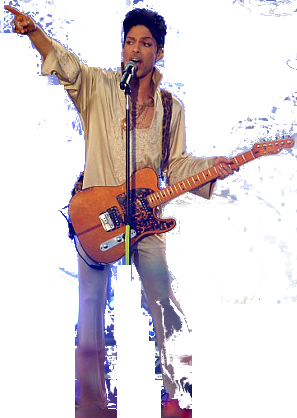
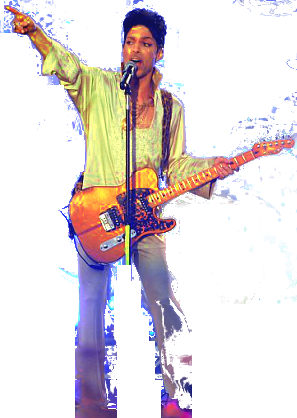
details

diff --git a/index.html b/index.html
@@ -11,21 +11,22 @@
     <script src="components/aframe-template-component.min.js"></script>
     <script src="components/aframe-vid-shader.min.js"></script>
     <script src="components/entity-generator.js"></script>
-    <script src="components/extrude-svg.js"></script>
+    <script src="components/spotlight-target.js"></script>
+    <script src="components/svg-extrude-geometry.js"></script>
   </head>
   <body>
     <a-scene>
       <a-assets>
         <img id="ground" src="assets/ground.jpg">
         <img id="love" src="assets/love.svg">
-        <img id="prince" src="assets/prince.png">
+        <img id="prince-img" src="assets/prince.png">
         <a-mixin id="raindrop"
                  geometry="primitive: box; depth: 0.008; height: 0.05; width: 0.008"
-                 material="color: #590D82; shader: flat"
+                 material="color: #8B3FB4; shader: flat"
                  random-position="min: -6 -6 -6; max: 6 6 3"></a-mixin>
         <a-mixin id="spotlight"
-                 light="angle: 160; color: #FFF; intensity: 0.7; type: spot"
-                 rotation="45 45 0"></a-mixin>
+                 light="angle: 80; color: #AAC; intensity: 1; type: spot"
+                 spotlight-target="#prince"></a-mixin>
         <a-mixin id="candlelight"
                  geometry="primitive: sphere; radius: 0.2; segments: 4"
                  material="color: #F5F0E8; shader: flat"></a-mixin>
@@ -55,9 +56,13 @@
                                       curveSegments: 36"
                 material="color: #BD1EEE; metalness: 0.1; roughness: 0.6"
                 scale="0.34 0.34 0.34" rotation="90 0 0" position="-103 1 -220"></a-entity>
-      <a-image src="#prince" position="0 5 -3" scale="3 5 3"></a-image>
+      <a-entity svg-extrude-geometry="src: #love; bezelSegments: 1; bevelSize: 0.1;
+                                      bevelThickness: 0.1; curveSegments: 8"
+                material="color: #111; metalness: 1; roughness: 0.2"
+                scale="0.30 0.30 0.01" rotation="90 0 0" position="-90.9 2.6 -193.8"></a-entity>
+      <a-image id="prince" src="#prince-img" position="0 5 -3" scale="3 5 3"></a-image>
       <a-entity geometry="primitive: plane; height: 10; width: 20"
-                material="shader: video; src: #prince-video; opacity: 0.2"
+                material="shader: video; src: #prince-video; opacity: 0.4"
                 position="0 25 -10" rotation="40 0 0"></a-entity>
 
       <a-entity geometry="primitive: circle; radius: 4.5"
@@ -71,6 +76,10 @@
                      repeat="indefinite" to="0 0 10"></a-animation>
       </a-entity>
 
+      <a-entity geometry="primitive: cylinder; radius: 50; openEnded: true"
+                material="color: #BD1EEE; side: double; roughness: 1"
+                position="0 35 0"></a-entity>
+
       <!-- Camera. -->
       <a-entity camera look-controls position="0 5 10"></a-entity>
 
@@ -78,9 +87,9 @@
       <a-entity entity-generator="mixin: candle-right; num: 150"></a-entity>
       <a-entity entity-generator="mixin: candle-left; num: 80" rotation="0 -90 0"></a-entity>
 
-      <a-light type="ambient" color="#222"></a-light>
-      <a-light mixin="spotlight" position="-20 25 -40"></a-light>
-      <a-light mixin="spotlight" position="20 25 -40"></a-light>
+      <a-light type="ambient" color="#343"></a-light>
+      <a-entity mixin="spotlight" position="-40 60 -130"></a-entity>
+      <a-entity mixin="spotlight" position="40 60 -130"></a-entity>
 
       <a-sky color="#112"></a-sky>
       <a-entity geometry="primitive: circle; radius: 40"

diff --git a/components/spotlight-target.js b/components/spotlight-target.js
@@ -1,0 +1,14 @@
+/**
+ * Set spotlight target.
+ */
+AFRAME.registerComponent('spotlight-target', {
+  dependencies: ['light'],
+
+  schema: {
+    type: 'selector'
+  },
+
+  update: function () {
+    this.el.components.light.light.target = this.data.object3D;
+  }
+});

diff --git a/components/entity-generator.js b/components/entity-generator.js
@@ -1,5 +1,5 @@
 /**
- * Create ton of entities at random positions.
+ * Create number of entities given a mixin.
  */
 AFRAME.registerComponent('entity-generator', {
   schema: {
